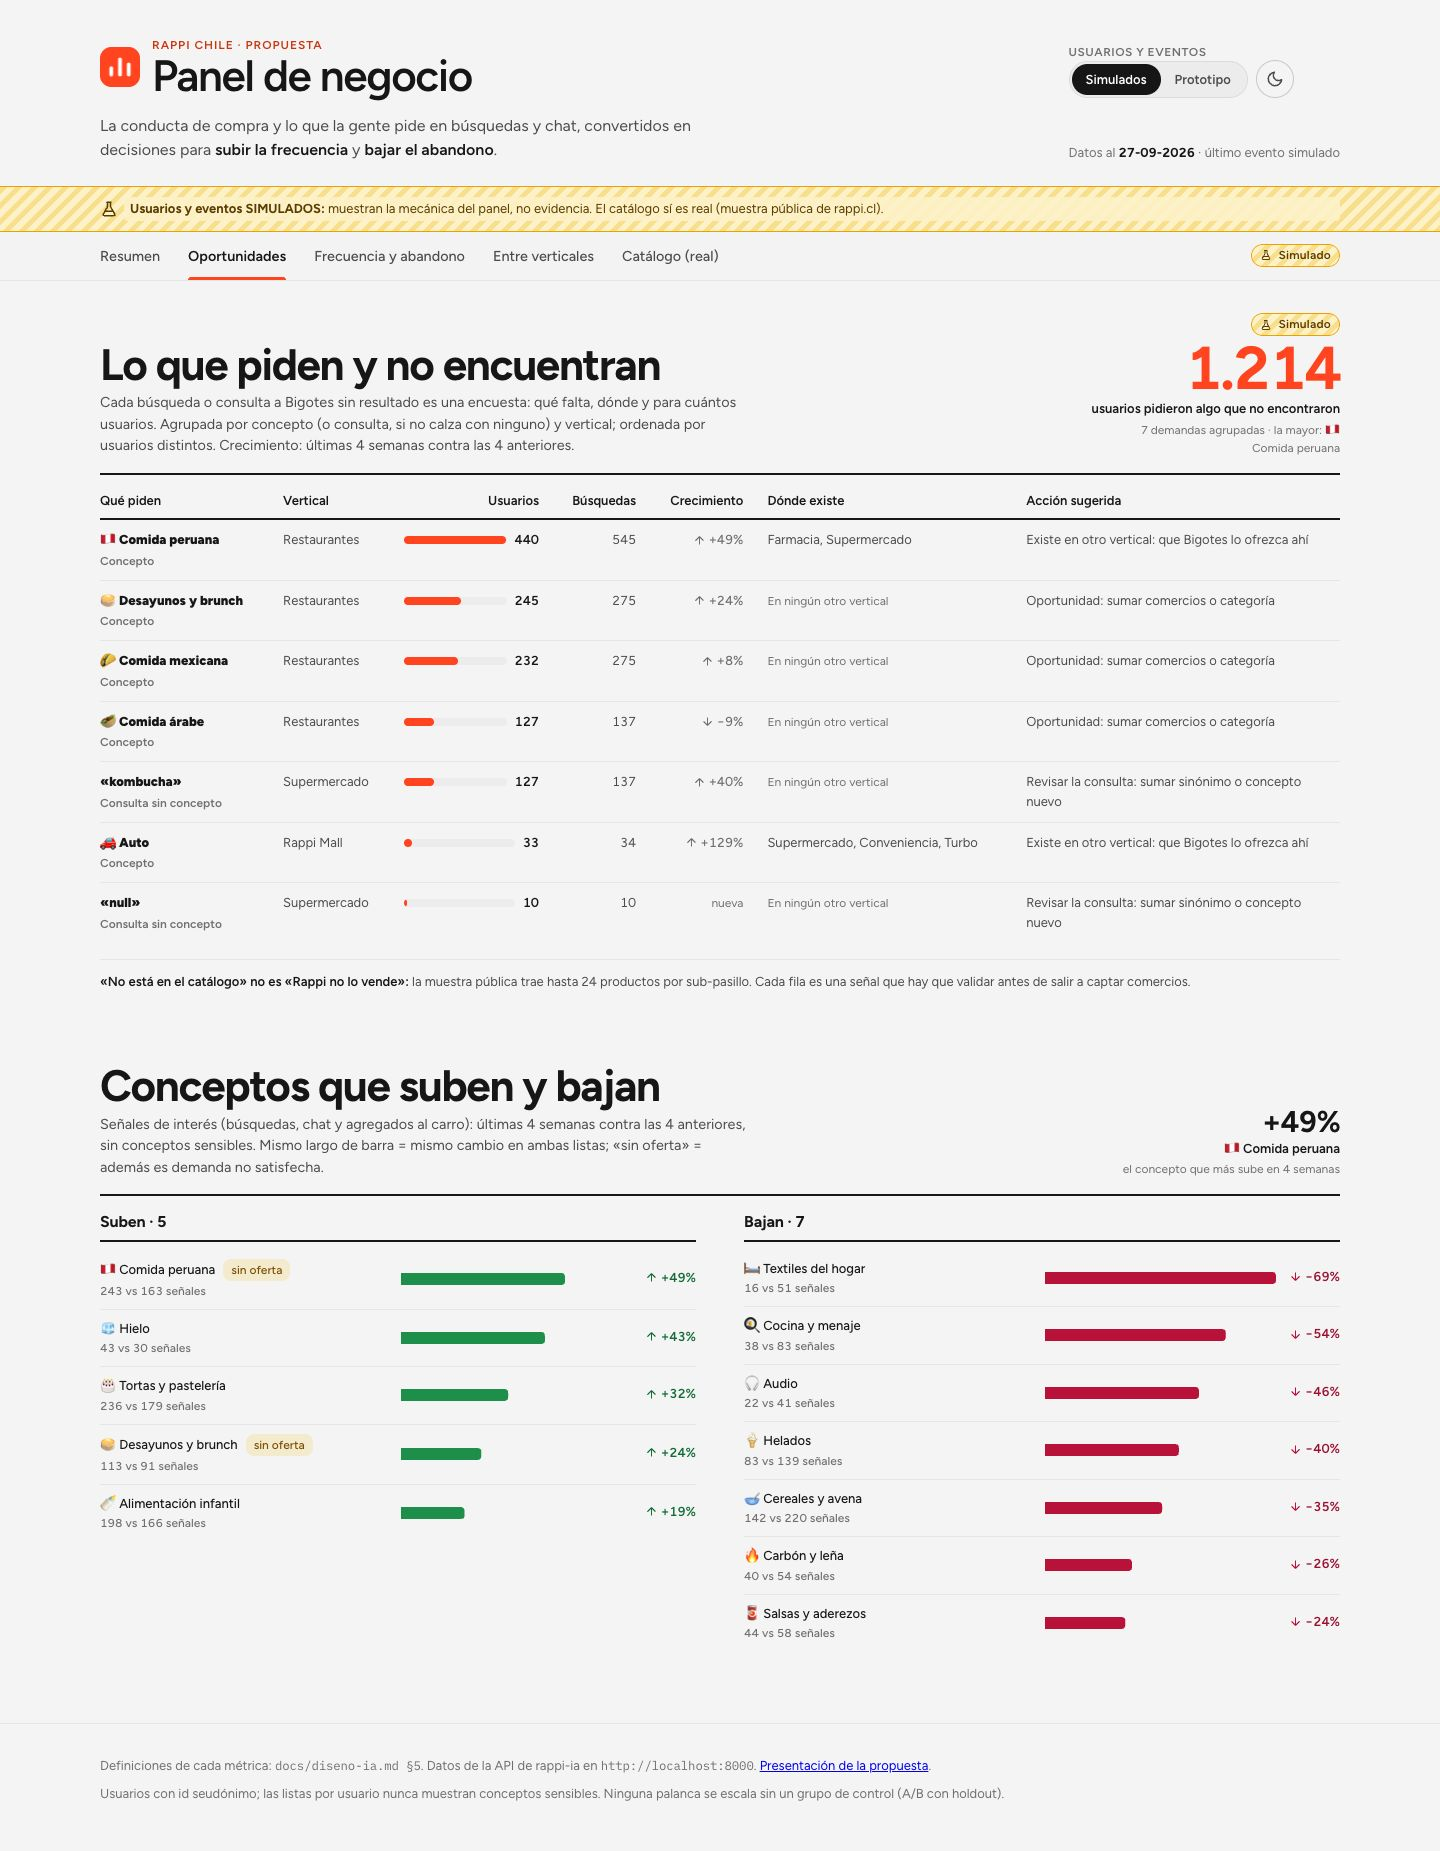
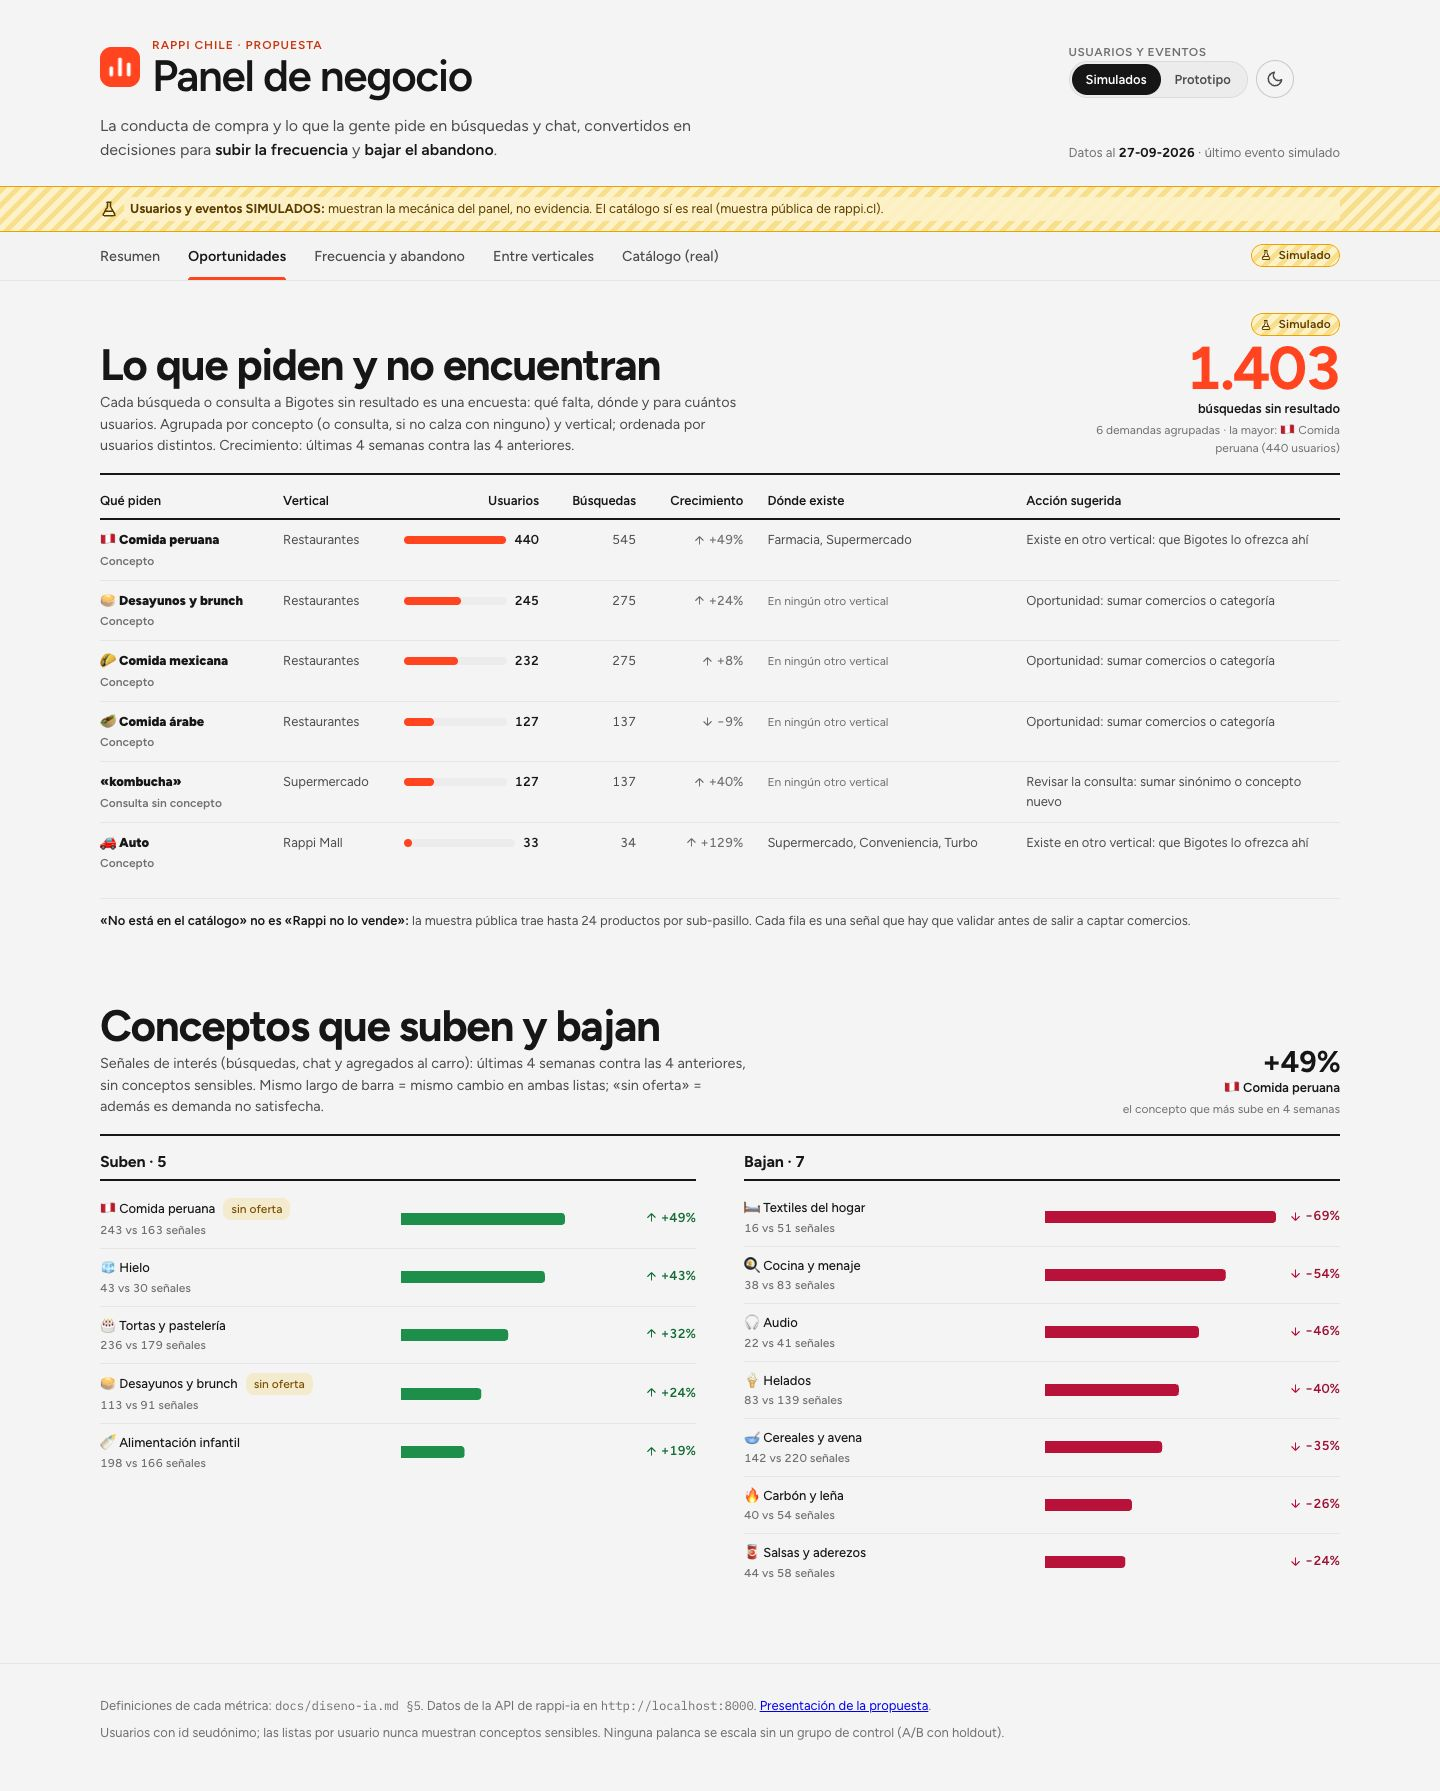
fix(panel): Oportunidades sin cifras engañosas
- El titular sumaba usuarios por fila (1.204 con los datos simulados, contra
  824 distintos: la misma persona aparece en varias filas). Ahora suma
  búsquedas sin resultado, que sí se pueden sumar, y da los usuarios de la
  demanda mayor en el contexto.
- «Nueva» solo si hubo búsquedas en las últimas 4 semanas; sin ellas se lee
  «sin actividad en 4 semanas», también en «Qué hacer esta semana».
- Captura de Oportunidades regenerada (ya sin la fila «null»).

diff --git a/dashboard-empresa/src/views/opportunities/OpportunitiesView.test.jsx b/dashboard-empresa/src/views/opportunities/OpportunitiesView.test.jsx
@@ -1,7 +1,8 @@
-import { screen } from '@testing-library/react'
+import { render, screen } from '@testing-library/react'
 import { afterEach, describe, expect, test } from 'vitest'
 import { renderWithData, resetApi, serveFixtures } from '../../test/fixtureApi.js'
 import { OpportunitiesView } from './OpportunitiesView.jsx'
+import { UnmetDemand } from './UnmetDemand.jsx'
 
 describe('OpportunitiesView', () => {
   afterEach(resetApi)
@@ -16,6 +17,30 @@ describe('OpportunitiesView', () => {
     expect(screen.getByText('Bajan · 7')).toBeTruthy()
     // Peruana sube, pero no tiene oferta: se marca.
     expect(screen.getAllByText('sin oferta').length).toBeGreaterThan(0)
+  })
+
+  test('el titular suma búsquedas, no usuarios (un usuario aparece en varias filas)', async () => {
+    serveFixtures()
+    await renderWithData(<OpportunitiesView source="synthetic" />)
+
+    expect(await screen.findByText('1.403')).toBeTruthy()
+    expect(screen.getByText('búsquedas sin resultado')).toBeTruthy()
+    expect(screen.queryByText('1.204')).toBeNull()
+  })
+
+  test('«nueva» solo si hubo búsquedas recientes; sin ellas, sin actividad', () => {
+    const row = { vertical: 'mall', concept_id: 'auto', que: '🚗 Auto', busquedas: 9, usuarios: 6, crecimiento_pct: null }
+    render(
+      <UnmetDemand
+        rows={[
+          { ...row, recientes: 4, anteriores: 0 },
+          { ...row, concept_id: 'bici', que: '🚲 Bici', recientes: 0, anteriores: 0 },
+        ]}
+      />,
+    )
+
+    expect(screen.getAllByText('nueva')).toHaveLength(1)
+    expect(screen.getAllByText('sin actividad en 4 semanas')).toHaveLength(1)
   })
 
   test('sin datos del prototipo muestra estados vacíos', async () => {

diff --git a/dashboard-empresa/src/views/opportunities/UnmetDemand.jsx b/dashboard-empresa/src/views/opportunities/UnmetDemand.jsx
@@ -5,10 +5,11 @@ import { EmptyState } from '../../components/States.jsx'
 import { formatNumber, formatSignedPct } from '../../lib/format.js'
 import { demandLabel, verticalLabel } from '../../lib/labels.js'
 
-function Growth({ value }) {
-  if (value === null || value === undefined) return <span className="cell-sub">nueva</span>
+function Growth({ row }) {
+  if (row.recientes === 0) return <span className="cell-sub">sin actividad en 4 semanas</span>
+  if (row.crecimiento_pct === null || row.crecimiento_pct === undefined) return <span className="cell-sub">nueva</span>
   // Neutro a propósito: que crezca la demanda sin oferta es urgencia, no un resultado bueno ni malo.
-  return <Delta value={value} format={formatSignedPct} goodWhen={null} />
+  return <Delta value={row.crecimiento_pct} format={formatSignedPct} goodWhen={null} />
 }
 
 function WhereItExists({ value }) {
@@ -50,7 +51,7 @@ export function UnmetDemand({ rows }) {
       ),
     },
     { key: 'busquedas', header: 'Búsquedas', numeric: true, render: (row) => formatNumber(row.busquedas) },
-    { key: 'crecimiento', header: 'Crecimiento', numeric: true, render: (row) => <Growth value={row.crecimiento_pct} /> },
+    { key: 'crecimiento', header: 'Crecimiento', numeric: true, render: (row) => <Growth row={row} /> },
     { key: 'existe_en', header: 'Dónde existe', render: (row) => <WhereItExists value={row.existe_en} /> },
     { key: 'accion', header: 'Acción sugerida', wide: true, render: (row) => <span className="action-cell">{row.accion}</span> },
   ]

diff --git a/dashboard-empresa/src/views/summary/actions.test.js b/dashboard-empresa/src/views/summary/actions.test.js
@@ -11,6 +11,8 @@ const opportunity = (overrides) => ({
   que: '🇵🇪 Comida peruana',
   busquedas: 10,
   usuarios: 8,
+  recientes: 6,
+  anteriores: 5,
   crecimiento_pct: 20,
   accion: 'Oportunidad: sumar comercios o categoría',
   ...overrides,
@@ -54,12 +56,23 @@ describe('pickActions', () => {
   })
 
   test('una consulta sin concepto va entre comillas y el crecimiento nulo se lee como demanda nueva', () => {
-    const rows = [opportunity({ concept_id: null, que: 'kombucha', vertical: 'supermercado', crecimiento_pct: null })]
+    const rows = [
+      opportunity({ concept_id: null, que: 'kombucha', vertical: 'supermercado', anteriores: 0, crecimiento_pct: null }),
+    ]
 
     const [top] = pickActions({ opportunities: rows })
 
     expect(top.title).toBe('«kombucha» en Supermercado')
     expect(top.detail).toContain('nueva')
+  })
+
+  test('una demanda sin búsquedas en 4 semanas no se presenta como nueva', () => {
+    const rows = [opportunity({ recientes: 0, anteriores: 0, crecimiento_pct: null })]
+
+    const [top] = pickActions({ opportunities: rows })
+
+    expect(top.detail).toContain('sin búsquedas en las últimas 4 semanas')
+    expect(top.detail).not.toContain('nueva')
   })
 
   test('si todos los conceptos que suben son demanda no satisfecha, no repite la oportunidad top', () => {

diff --git a/dashboard-empresa/src/views/opportunities/OpportunitiesView.jsx b/dashboard-empresa/src/views/opportunities/OpportunitiesView.jsx
@@ -10,17 +10,18 @@ import { TrendList } from './TrendList.jsx'
 import { UnmetDemand } from './UnmetDemand.jsx'
 import './opportunities.css'
 
-/** Titular de la vista: cuántos usuarios distintos pidieron algo sin resultado (suma de la demanda agrupada). */
+/** Titular de la vista: búsquedas sin resultado de la demanda agrupada. Se suman búsquedas y no usuarios: la misma
+ * persona aparece en varias filas (con los datos simulados, la suma de usuarios daba 1.204 contra 824 distintos). */
 function UnmetHeadline({ source }) {
   const rows = useAnalytics('opportunities', source)
   if (!rows.length) return null
-  const users = rows.reduce((total, row) => total + row.usuarios, 0)
+  const searches = rows.reduce((total, row) => total + row.busquedas, 0)
   const [top] = [...rows].sort((a, b) => b.usuarios - a.usuarios)
   return (
     <Headline
-      value={formatNumber(users)}
-      unit="usuarios pidieron algo que no encontraron"
-      context={`${rows.length} demandas agrupadas · la mayor: ${demandLabel(top)}`}
+      value={formatNumber(searches)}
+      unit="búsquedas sin resultado"
+      context={`${rows.length} demandas agrupadas · la mayor: ${demandLabel(top)} (${formatNumber(top.usuarios)} usuarios)`}
       tone="brand"
     />
   )

diff --git a/dashboard-empresa/src/views/summary/actions.js b/dashboard-empresa/src/views/summary/actions.js
@@ -6,7 +6,9 @@ const TREND_ACTION = 'Ocasiones y recompra: campaña con horario y «¿Repetimos
 const RISK_ACTION =
   'Reactivación por ritmo: mensaje con su concepto top y una novedad del vertical, solo con consentimiento; al resto, Bigotes en la app.'
 
-function growthText(pct) {
+function growthText(row) {
+  if (row.recientes === 0) return 'sin búsquedas en las últimas 4 semanas'
+  const pct = row.crecimiento_pct
   return pct === null || pct === undefined ? 'nueva: no aparecía en las 4 semanas anteriores' : `${formatSignedPct(pct)} vs las 4 semanas anteriores`
 }
 
@@ -19,7 +21,7 @@ function topOpportunity(opportunities) {
     figure: formatNumber(top.usuarios),
     unit: 'usuarios lo buscaron sin resultado',
     title: `${demandLabel(top)} en ${verticalLabel(top.vertical)}`,
-    detail: `${formatNumber(top.busquedas)} búsquedas · ${growthText(top.crecimiento_pct)}`,
+    detail: `${formatNumber(top.busquedas)} búsquedas · ${growthText(top)}`,
     action: top.accion,
     view: 'oportunidades',
     linkLabel: 'Ver oportunidades',
